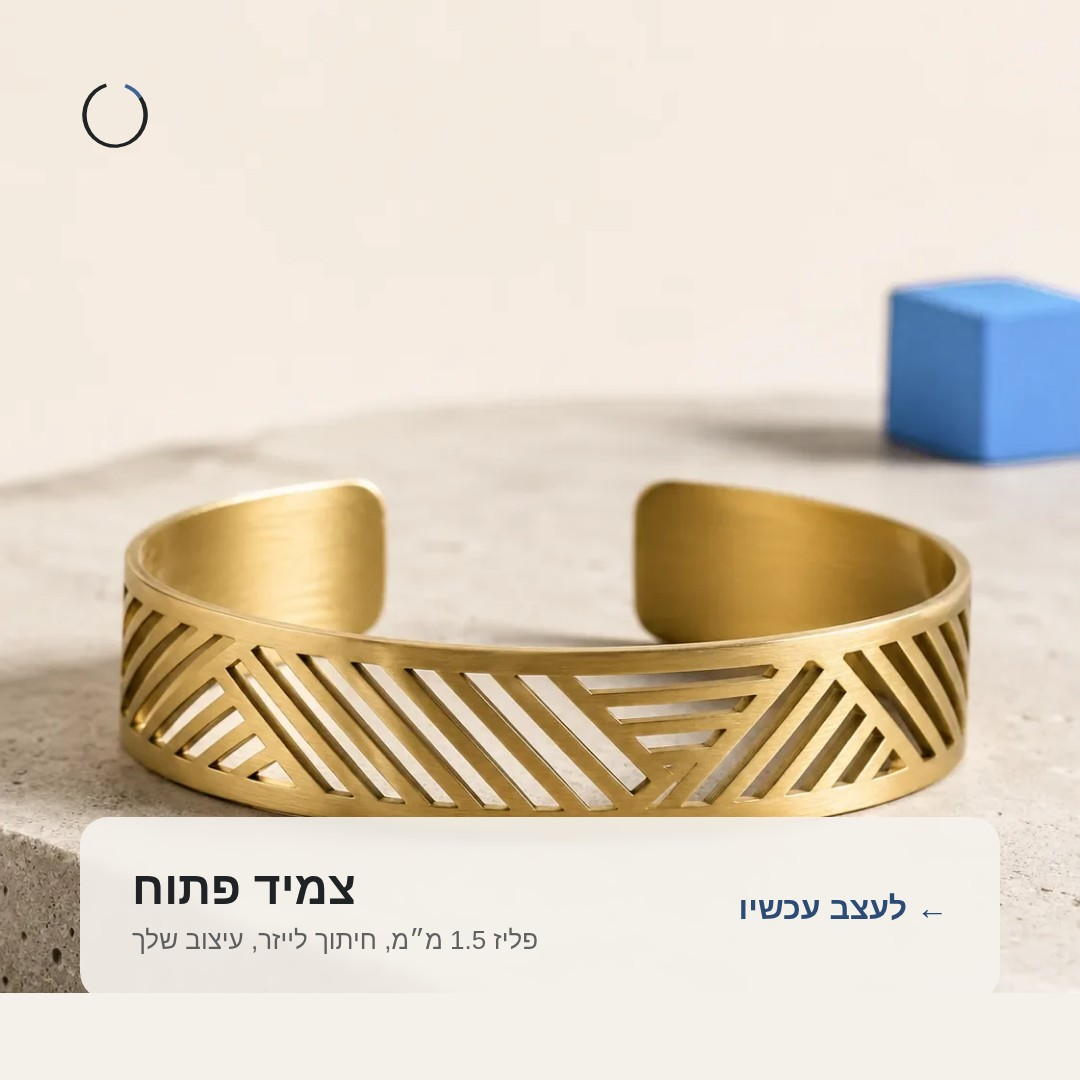
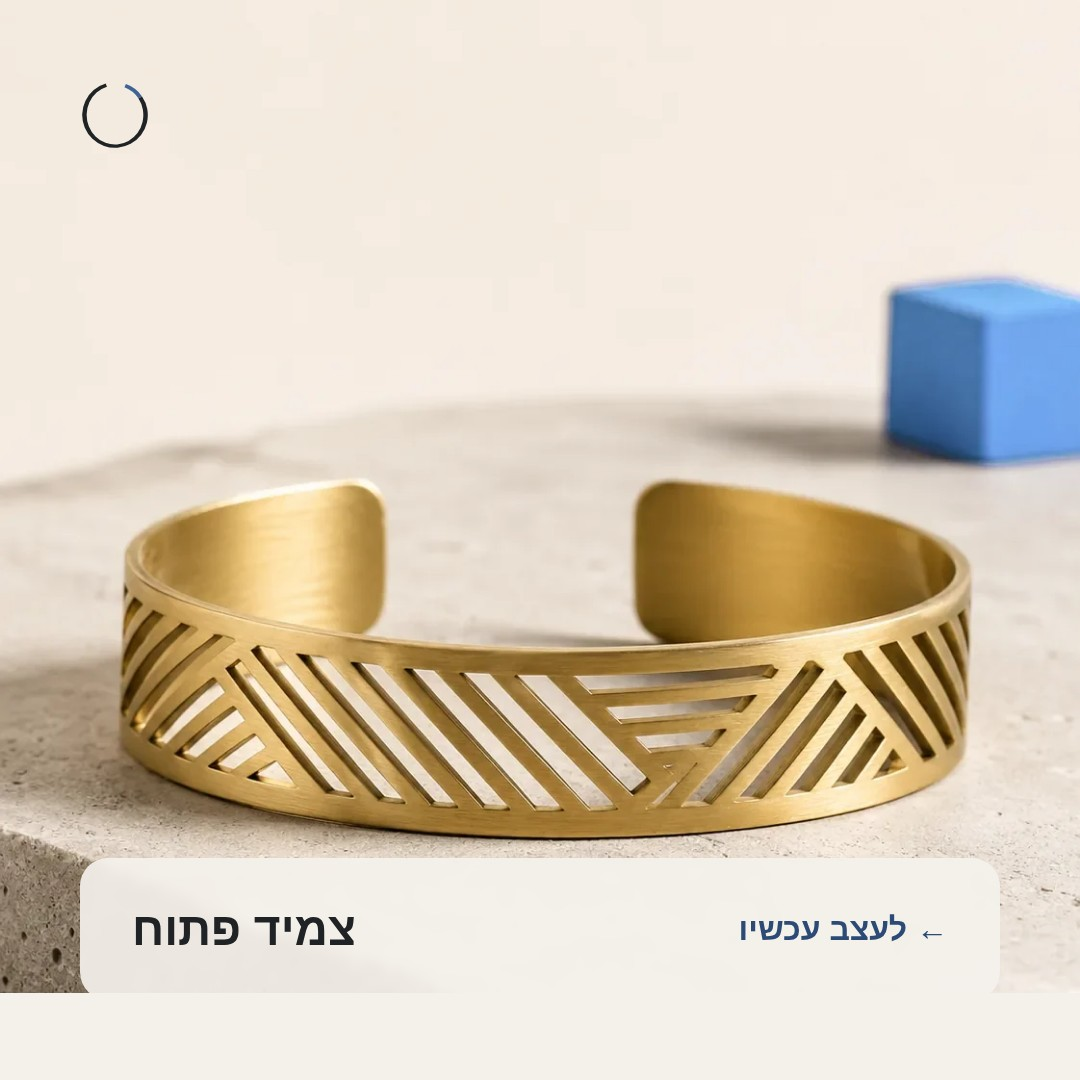
Drop material/technique line from the product post (#179)
"פליז 1.5 מ״מ, חיתוך לייזר" isn't a fixed spec the customer needs to
see at this stage — removing it leaves just the product name and CTA.

Changed region(s): [[0.0611, 0.7333, 0.9167, 0.8861], [0.6722, 0.825, 0.8556, 0.8861]]

diff --git a/docs/brand/social/build-social-assets.py b/docs/brand/social/build-social-assets.py
@@ -145,16 +145,12 @@ html,body{{width:1080px;height:1080px;background:var(--porcelain);position:relat
 .top{{position:absolute;top:80px;left:80px;}}
 .card{{position:absolute;bottom:80px;left:80px;right:80px;background:rgba(244,241,235,0.92);backdrop-filter:blur(6px);border-radius:28px;padding:44px 52px;display:flex;align-items:center;justify-content:space-between;}}
 .name{{font-family:'Archivo',sans-serif;font-weight:700;font-size:46px;color:var(--graphite);}}
-.desc{{font-size:26px;color:var(--graphite);opacity:0.7;margin-top:10px;font-weight:400;}}
 .cta{{font-family:'Archivo',sans-serif;font-weight:700;font-size:32px;color:var(--lapis-ink);white-space:nowrap;}}
 </style></head><body>
 <div class="photo"></div>
 <div class="top">{mark_svg(70)}</div>
 <div class="card">
-<div>
 <div class="name">צמיד פתוח</div>
-<div class="desc">פליז 1.5 מ״מ, חיתוך לייזר, עיצוב שלך</div>
-</div>
 <div class="cta">לעצב עכשיו ←</div>
 </div>
 </body></html>'''
